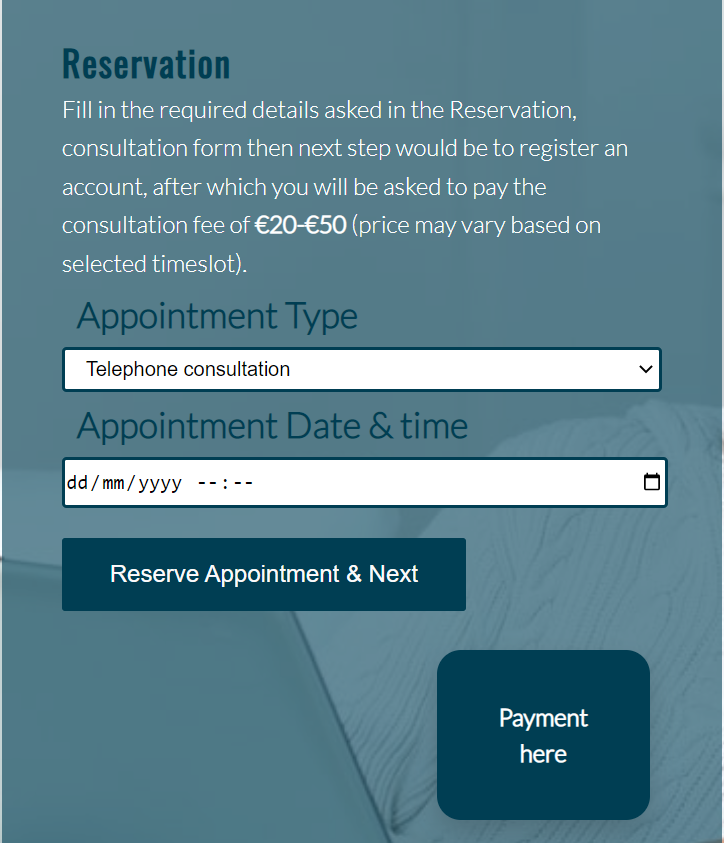
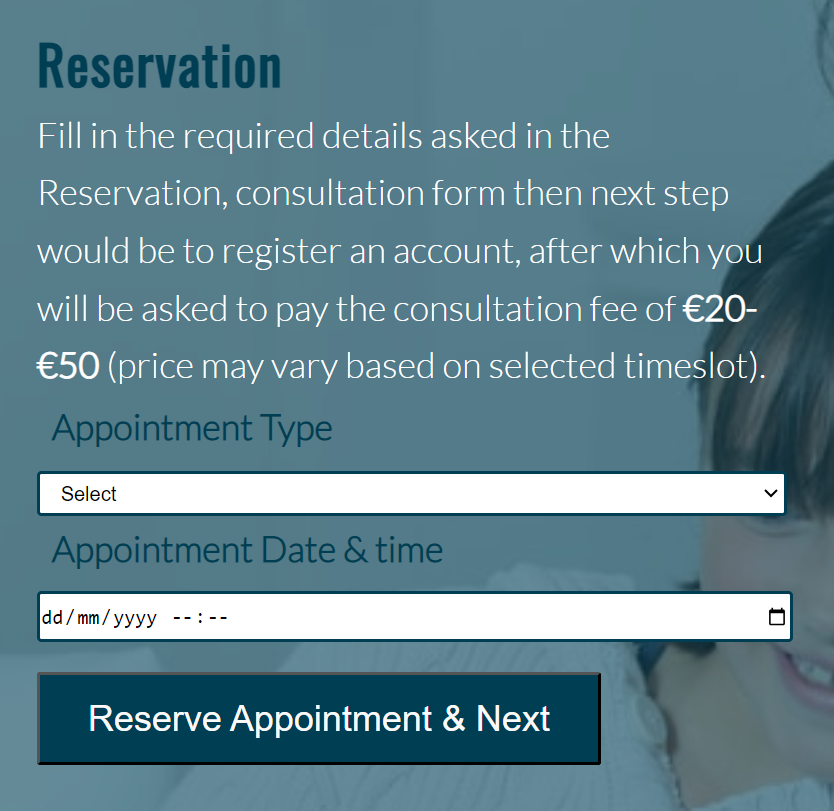
correction done

diff --git a/index.html b/index.html
@@ -84,7 +84,7 @@
         <div class="child text-center two">
             <h2>2</h2>
             <img src="assets/images/reservation-image.png" alt="Reservation form picture" class="img-work-section">
-            <h3> Pick a time of your choice for your video or</h3><h3>telephone consultation & Do Payment</h3>
+            <h3> Pick a time of your choice for your video or</h3><h3>telephone consultation & fill booking form</h3>
         </div>
         <div class="child text-center three">
             <h2>3</h2>
